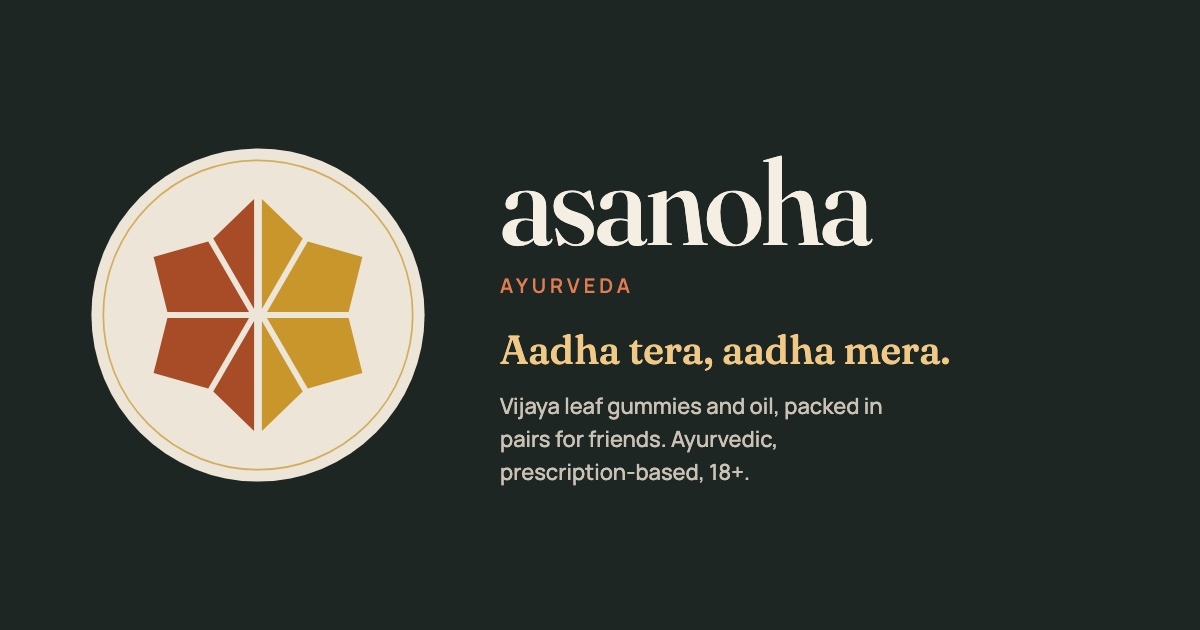
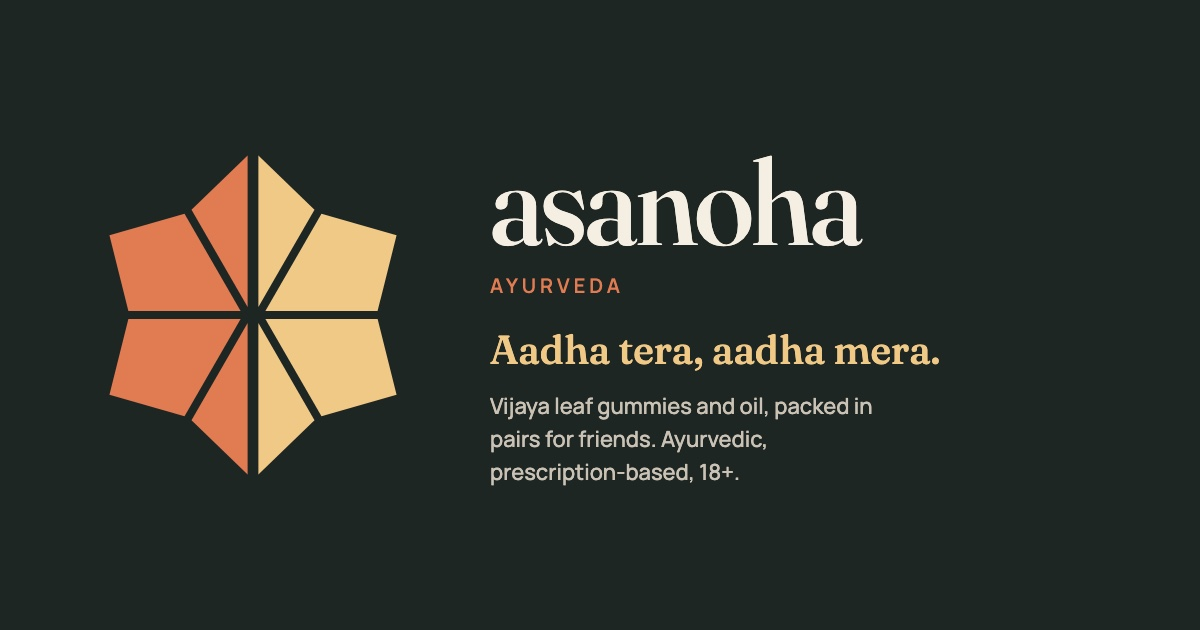
Hero and share image: bare split star, no cream circle
- Home hero drops the cream disc and gold ring; the star is scaled up
  to fill the space and the halves-join animation is unchanged
- Star halves follow the theme: #A84B27/#C9962B by day,
  #E07B52/#F0C987 at night; SVG overflow visible so the slide-in
  is not clipped
- og.jpg redrawn with the bare star in the night colours
- Service worker cache bumped to asanoha-shop-44

diff --git a/index.html b/index.html
@@ -75,7 +75,7 @@
       <p class="lead">Ayurvedic Vijaya leaf gummies, oil and tablets, prescribed by a registered AYUSH practitioner, for you alone. The name is for the friend who shared their tiffin with you in class 6. The medicine stays yours.</p>
       <div class="ctas"><a class="btn clay" href="#shop">Shop the range</a><a class="btn ghost" href="story.html">Read our story</a></div>
     </div>
-    <div class="hero-art"><svg viewBox="-250 -250 500 500" role="img" aria-label="Asanoha mark: the asa-no-ha star in two halves, terracotta and gold, inside a ring"><defs><path id="hk" d="M0 0L-16.67-28.87L0-45L16.67-28.87Z"></path><clipPath id="lhhero"><rect x="-60" y="-60" width="60" height="120"></rect></clipPath><clipPath id="rhhero"><rect x="0" y="-60" width="60" height="120"></rect></clipPath></defs><circle cx="0" cy="0" r="188" fill="#F7F2E9"></circle><circle cx="0" cy="0" r="174" fill="none" stroke="#C9962B" stroke-width="1.5" stroke-opacity="0.7"></circle><g class="half-l"><g transform="scale(2.85)"><g clip-path="url(#lhhero)" transform="translate(-1.6 0)" fill="#A84B27"><use href="#hk" transform="rotate(0) translate(0 -2.4)"></use><use href="#hk" transform="rotate(60) translate(0 -2.4)"></use><use href="#hk" transform="rotate(120) translate(0 -2.4)"></use><use href="#hk" transform="rotate(180) translate(0 -2.4)"></use><use href="#hk" transform="rotate(240) translate(0 -2.4)"></use><use href="#hk" transform="rotate(300) translate(0 -2.4)"></use></g></g></g><g class="half-r"><g transform="scale(2.85)"><g clip-path="url(#rhhero)" transform="translate(1.6 0)" fill="#C9962B"><use href="#hk" transform="rotate(0) translate(0 -2.4)"></use><use href="#hk" transform="rotate(60) translate(0 -2.4)"></use><use href="#hk" transform="rotate(120) translate(0 -2.4)"></use><use href="#hk" transform="rotate(180) translate(0 -2.4)"></use><use href="#hk" transform="rotate(240) translate(0 -2.4)"></use><use href="#hk" transform="rotate(300) translate(0 -2.4)"></use></g></g></g></svg></div>
+    <div class="hero-art"><svg viewBox="-250 -250 500 500" role="img" aria-label="Asanoha mark: the asa-no-ha star in two halves, terracotta and gold"><defs><path id="hk" d="M0 0L-16.67-28.87L0-45L16.67-28.87Z"></path><clipPath id="lhhero"><rect x="-60" y="-60" width="60" height="120"></rect></clipPath><clipPath id="rhhero"><rect x="0" y="-60" width="60" height="120"></rect></clipPath></defs><g class="half-l"><g transform="scale(4.6)"><g clip-path="url(#lhhero)" transform="translate(-1.6 0)" style="fill:var(--star-a)"><use href="#hk" transform="rotate(0) translate(0 -2.4)"></use><use href="#hk" transform="rotate(60) translate(0 -2.4)"></use><use href="#hk" transform="rotate(120) translate(0 -2.4)"></use><use href="#hk" transform="rotate(180) translate(0 -2.4)"></use><use href="#hk" transform="rotate(240) translate(0 -2.4)"></use><use href="#hk" transform="rotate(300) translate(0 -2.4)"></use></g></g></g><g class="half-r"><g transform="scale(4.6)"><g clip-path="url(#rhhero)" transform="translate(1.6 0)" style="fill:var(--star-b)"><use href="#hk" transform="rotate(0) translate(0 -2.4)"></use><use href="#hk" transform="rotate(60) translate(0 -2.4)"></use><use href="#hk" transform="rotate(120) translate(0 -2.4)"></use><use href="#hk" transform="rotate(180) translate(0 -2.4)"></use><use href="#hk" transform="rotate(240) translate(0 -2.4)"></use><use href="#hk" transform="rotate(300) translate(0 -2.4)"></use></g></g></g></svg></div>
   </div>
   <div class="hero-scene day-only" aria-hidden="true"><svg viewBox="0 0 1440 280" preserveAspectRatio="xMidYMax slice">
 <path d="M0 280 L0 150 L90 90 L160 140 L260 40 L360 150 L430 110 L520 190 L600 150 L700 230 L760 280 Z" fill="#A9C6BC"/>

diff --git a/sw.js b/sw.js
@@ -1,4 +1,4 @@
-const CACHE='asanoha-shop-43';
+const CACHE='asanoha-shop-44';
 const ASSETS=['assets/img/moondays.webp','assets/img/isabgol.webp','assets/img/shilajit.webp','assets/img/ashwagandha.webp','assets/js/shop.js?v=29','assets/js/i18n.js?v=5','assets/js/appbar.js?v=3','assets/js/search.js?v=7',"./", "index.html", "story.html", "blog.html", "how-it-works.html", "partner.html", "privacy.html", "terms.html", "404.html", "manifest.webmanifest", "assets/css/site.css?v=36", "assets/js/site.js?v=24", "assets/js/account.js?v=6", "assets/img/apple-touch-icon.png", "assets/img/ayush-badge.svg", "assets/img/foil.webp", "assets/img/giftbox.webp", "assets/img/icon-192.png", "assets/img/icon-512.png", "assets/img/logo.png", "assets/img/mark.svg", "assets/img/og.jpg", "assets/img/oil-high.webp", "assets/img/oil-low.webp", "assets/img/oil-medium.webp", "assets/img/tablets.webp", "assets/img/tinback.webp", "assets/img/tins-high.webp", "assets/img/tins-low.webp", "assets/img/tins-medium.webp"];
 self.addEventListener('install',e=>{e.waitUntil(caches.open(CACHE).then(c=>c.addAll(ASSETS)).then(()=>self.skipWaiting()));});
 self.addEventListener('activate',e=>{e.waitUntil(caches.keys().then(ks=>Promise.all(ks.filter(k=>k!==CACHE).map(k=>caches.delete(k)))).then(()=>self.clients.claim()));});

diff --git a/assets/css/site.css b/assets/css/site.css
@@ -75,7 +75,9 @@ h1,h2,h3{font-family:var(--serif);font-weight:600;line-height:1.1;letter-spacing
 .hero .trust span{display:inline-flex;align-items:center;gap:8px}
 .hero .trust span::before{content:"";width:8px;height:8px;border-radius:50%;background:var(--haldi)}
 .hero-art{position:relative;justify-self:center;width:100%;max-width:480px}
-.hero-art svg{width:100%;height:auto;display:block}
+.hero-art svg{width:100%;height:auto;display:block;overflow:visible}
+.hero-art{--star-a:#A84B27;--star-b:#C9962B}
+:root[data-theme="night"] .hero-art{--star-a:#E07B52;--star-b:#F0C987}
 .hero-art .half-l,.hero-art .half-r{transition:transform 1.3s cubic-bezier(.2,.8,.2,1)}
 .hero-art .half-l{transform:translateX(-54px)} .hero-art .half-r{transform:translateX(54px)}
 .hero-art.joined .half-l,.hero-art.joined .half-r{transform:none}
